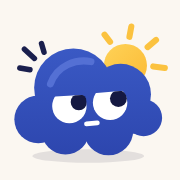
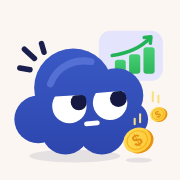
v45: ícone com gráfico e moedas; animações mais calmas
Claude-Session: https://claude.ai/code/session_01QS9ececa6nHdnKQHqd2tUK

Changed region(s): [[0.4444, 0.1111, 0.9444, 0.8889]]

diff --git a/index.html b/index.html
@@ -3,7 +3,7 @@
 <head>
 <meta charset="utf-8">
 <meta name="viewport" content="width=device-width, initial-scale=1, viewport-fit=cover">
-<meta name="sobrou-versao" content="v44">
+<meta name="sobrou-versao" content="v45">
 <meta name="description" content="Controle de gastos que lê o extrato e mostra quanto sobrou.">
 <meta name="robots" content="noindex, nofollow, noarchive">
 <meta name="googlebot" content="noindex, nofollow">
@@ -743,25 +743,25 @@ textarea{font:inherit}
 .say.typing{position:relative;min-height:2.4em}
 .say.typing>*{opacity:0}
 .say.typing::after{content:"";position:absolute;left:14px;top:50%;width:6px;height:6px;margin-top:-3px;border-radius:50%;background:var(--muted);
-  box-shadow:10px 0 0 var(--muted),20px 0 0 var(--muted);animation:tDots .9s ease-in-out infinite}
-.say.typed>*{animation:tIn .45s cubic-bezier(.2,.9,.3,1.15) both}
-.say.typed>*:nth-child(2){animation-delay:.08s}
+  box-shadow:10px 0 0 var(--muted),20px 0 0 var(--muted);animation:tDots 1.2s ease-in-out infinite}
+.say.typed>*{animation:tIn .7s cubic-bezier(.2,.9,.3,1.15) both}
+.say.typed>*:nth-child(2){animation-delay:.14s}
 @keyframes tDots{0%,100%{opacity:.35}50%{opacity:1}}
 @keyframes tIn{0%{opacity:0;transform:translateY(6px)}100%{opacity:1;transform:none}}
 /* 2. estica e amassa: o corpo antecipa (amassa), estica no pulo, amassa ao cair e assenta passando um pouquinho */
-.nube.play[data-a=hop] .nb,.nube.play[data-a=sparkle] .nb{animation:nSquashHop 1.5s cubic-bezier(.3,.7,.4,1)}
-.nube.play[data-a=happy] .nb{animation:nSquashSoft 1.1s ease-out}
-.nube.play[data-a=wow] .nb,.nube.play[data-a=alert] .nb{animation:nStretchUp .6s cubic-bezier(.2,1.4,.4,1)}
-.nube.play[data-a=sad] .nb,.nube.play[data-a=cry] .nb{animation:nDroop 1.6s ease-in-out}
+.nube.play[data-a=hop] .nb,.nube.play[data-a=sparkle] .nb{animation:nSquashHop 2.1s cubic-bezier(.3,.7,.4,1)}
+.nube.play[data-a=happy] .nb{animation:nSquashSoft 1.5s ease-out}
+.nube.play[data-a=wow] .nb,.nube.play[data-a=alert] .nb{animation:nStretchUp .9s cubic-bezier(.2,1.4,.4,1)}
+.nube.play[data-a=sad] .nb,.nube.play[data-a=cry] .nb{animation:nDroop 2.2s ease-in-out}
 @keyframes nSquashHop{0%{transform:none}10%{transform:scale(1.08,.9)}22%{transform:scale(.92,1.1)}40%{transform:scale(.96,1.05)}52%{transform:scale(1.1,.9)}62%{transform:scale(.97,1.03)}72%,100%{transform:none}}
 @keyframes nSquashSoft{0%,100%{transform:none}20%{transform:scale(1.05,.94)}45%{transform:scale(.97,1.04)}70%{transform:scale(1.01,.99)}}
 @keyframes nStretchUp{0%,100%{transform:none}25%{transform:scale(.93,1.09)}55%{transform:scale(1.03,.97)}}
 @keyframes nDroop{0%,100%{transform:none}40%,70%{transform:scale(1.04,.95)}}
 /* 3. acessórios (?, !, zz, moedinha, coração, brilho) surgem pequenos, girando, e crescem no lugar */
-.nube.play[data-a] .acc{animation:nAccPop .55s cubic-bezier(.2,1.6,.4,1) .18s both;transform-box:fill-box;transform-origin:50% 50%}
+.nube.play[data-a] .acc{animation:nAccPop .85s cubic-bezier(.2,1.5,.4,1) .3s both;transform-box:fill-box;transform-origin:50% 50%}
 @keyframes nAccPop{0%{opacity:0;transform:rotate(-120deg) scale(0)}70%{opacity:1}100%{opacity:1;transform:none}}
 /* 4. logo letra por letra ao abrir o app */
-.brand .bl{color:inherit;display:inline-block;animation:tLetter .42s cubic-bezier(.2,.9,.3,1.25) both}
+.brand .bl{color:inherit;display:inline-block;animation:tLetter .65s cubic-bezier(.2,.9,.3,1.25) both}
 @keyframes tLetter{0%{opacity:0;transform:translateY(.35em) scale(.9)}100%{opacity:1;transform:none}}
 @media (prefers-reduced-motion:reduce){.say.typing>*{opacity:1}.say.typing::after{display:none}.say.typed>*,.brand .bl{animation:none}}
 /* ===== Identidade Nube (v41): o azul do Nube nos destaques ===== */
@@ -4278,7 +4278,7 @@ function renderHello(k){
   const row=el("div",{class:"hrow"}, N.none ? el("span",null,"Coloque sua renda no Planejamento") : N.perDay!=null ? el("span",{class:"num"},`${brl(N.perDay)} por dia`) : "", N.none?"":el("span",{class:"hchip",id:"heroChip"},N.chip));
   const say=el("p",{class:"say",id:"helloTxt"}); say.append(el("span",{class:"hi"},H.greet)); const main=el("span",{class:"oi"}); main.innerHTML=H.html; say.append(main);
   box.setAttribute("aria-label", `${lbl}: ${val.textContent}. ${say.textContent}`);
-  rc(box, ring, el("div",{class:"hlbl"},lbl), val, row, say); sayTyping(say, 750);
+  rc(box, ring, el("div",{class:"hlbl"},lbl), val, row, say); sayTyping(say, 1100);
   if (m){ m.classList.add("wake"); setTimeout(()=>m.classList.remove("wake"), 1000);
     whenVisible(m, ()=>{ setTimeout(()=>{ if (!playMascot(m, H.key)) playMascot(m, null); idleBlink(m); heroLife(m); }, 950); }); }
 }
@@ -5321,7 +5321,7 @@ function sayTyping(p, ms){
 // "tino" letra por letra, uma vez quando o app abre
 function brandIntro(){
   const b=document.querySelector(".brand"); if (!b || b.dataset.intro || !motionOk()) return; b.dataset.intro="1";
-  let i=0; const wrap=n=>{ for (const c of [...n.childNodes]){ if (c.nodeType===3){ const f=document.createDocumentFragment(); for (const ch of c.textContent){ const sp=document.createElement("span"); sp.className="bl"; sp.style.animationDelay=(i++*75)+"ms"; sp.textContent=ch; f.append(sp); } c.replaceWith(f); } else wrap(c); } };
+  let i=0; const wrap=n=>{ for (const c of [...n.childNodes]){ if (c.nodeType===3){ const f=document.createDocumentFragment(); for (const ch of c.textContent){ const sp=document.createElement("span"); sp.className="bl"; sp.style.animationDelay=(i++*120)+"ms"; sp.textContent=ch; f.append(sp); } c.replaceWith(f); } else wrap(c); } };
   b.setAttribute("aria-label", b.textContent); wrap(b);
 }
 function afterLoad(){

diff --git a/sw.js b/sw.js
@@ -1,7 +1,7 @@
-// Sobrou: arquivos do app pra abrir sem internet. Versão: v44 (330a6de6)
+// Sobrou: arquivos do app pra abrir sem internet. Versão: v45 (bc486225)
 // Regra: a página (index.html) vem SEMPRE da internet primeiro; o cache só é usado sem conexão.
 // Assim uma versão nova chega na próxima vez que você abrir o app com internet.
-const CACHE = "sobrou-v44-330a6de6";
+const CACHE = "sobrou-v45-bc486225";
 const CORE = ["./", "./index.html", "./manifest.webmanifest", "./icons/apple-touch-icon.png", "./icons/icon-192.png", "./icons/icon-512.png"];
 self.addEventListener("install", e => { e.waitUntil(caches.open(CACHE).then(c => c.addAll(CORE)).then(() => self.skipWaiting())); });
 self.addEventListener("activate", e => { e.waitUntil(caches.keys().then(ks => Promise.all(ks.filter(k => k.startsWith("sobrou-") && k !== CACHE).map(k => caches.delete(k)))).then(() => self.clients.claim())); });
